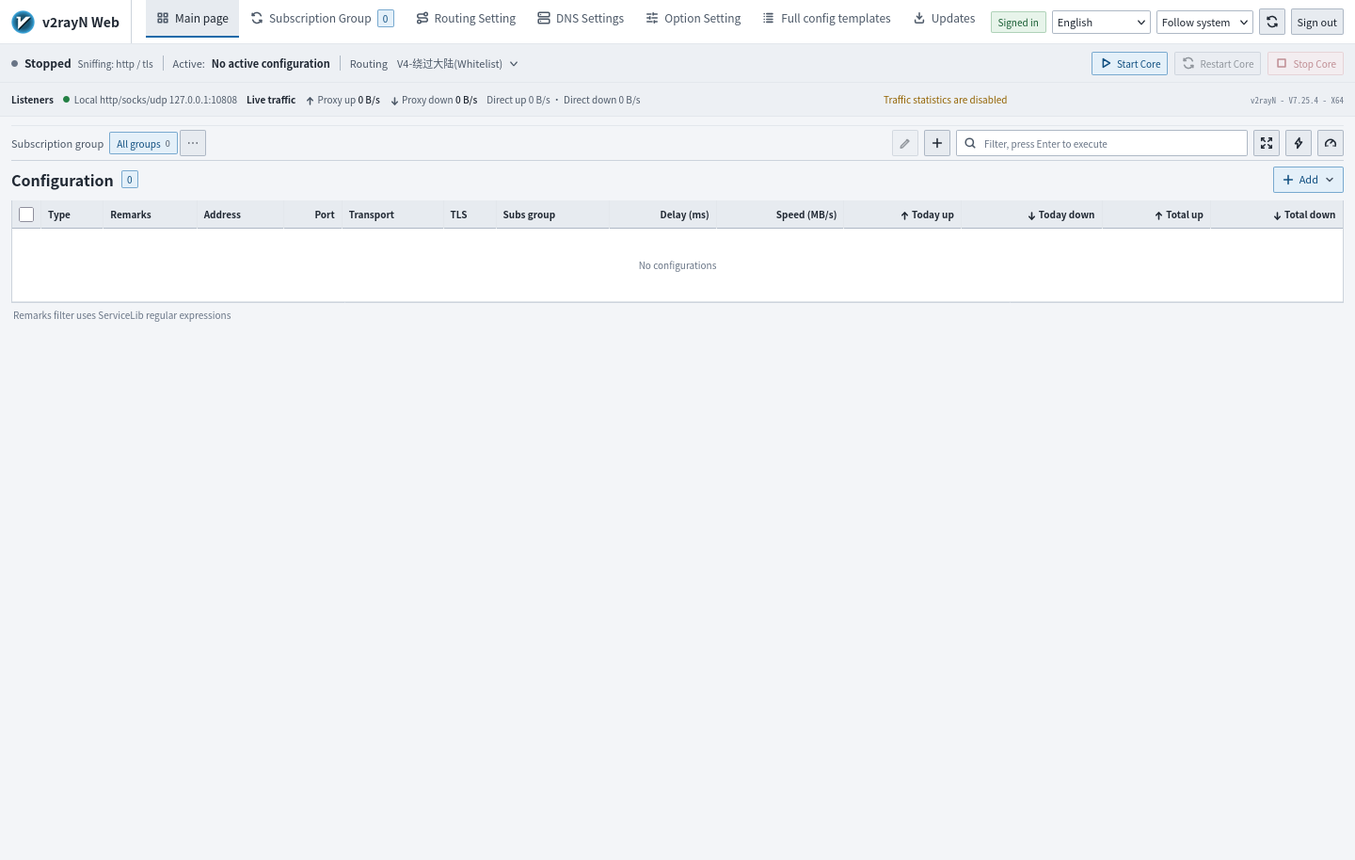
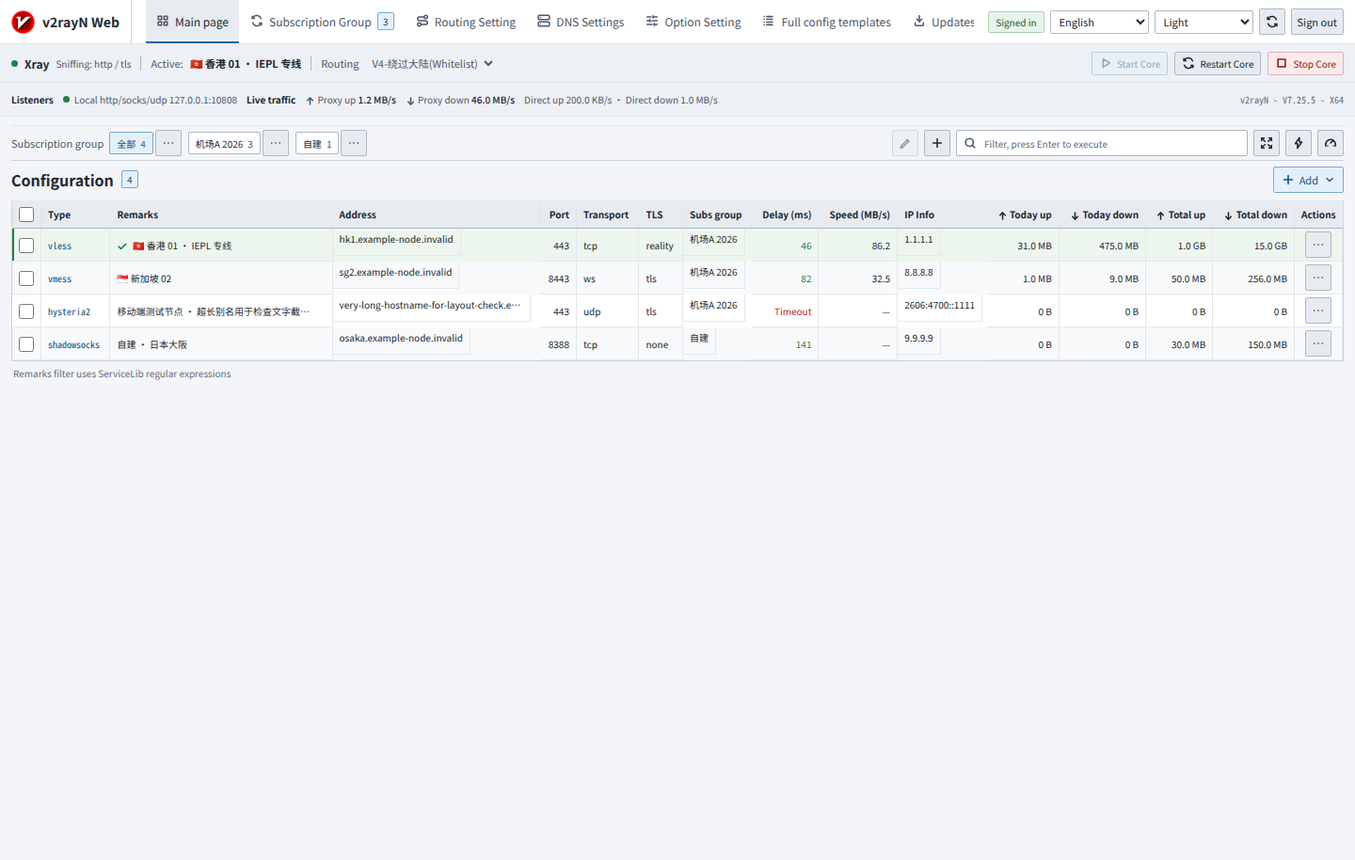
Fix mid-width navigation, desktop row actions and mobile menu clutter
- Wrap the desktop navigation onto its own row below 1360px instead of
  clipping tabs, and give the nodes group toolbar a stable label row.
- Restore the visible per-row More action in the desktop nodes table.
- De-duplicate the subscription bulk update buttons; the group button is
  disabled until a specific group is selected.
- Group node context-menu tests into one submenu, hide keyboard shortcut
  hints on touch screens and fix the Backspace wording.
- Ghost the mobile row action button, show the group More button only on
  the selected chip, drop units duplicated between labels and values, and
  label the mobile App Bar refresh control.
- Raise remaining 40px mobile touch targets to 44px.
- Compact the maintenance update options panel, cap routing strategy
  selects and render regional presets as chips.
- Raise dim text contrast in both themes and 9px hints to 10px.
- Refresh README screenshots from the current build.

diff --git a/Src/style.css b/Src/style.css
@@ -20,7 +20,7 @@
   --text: #e5e5e5;
   --text-primary: #e5e5e5;
   --text-muted: #a0a0a0;
-  --text-dim: #777;
+  --text-dim: #909090;
   --accent: #579cda;
   --accent-text: #b9dcf6;
   --accent-border: #527899;
@@ -88,7 +88,7 @@
   --text: #202833;
   --text-primary: #202833;
   --text-muted: #4d5968;
-  --text-dim: #697586;
+  --text-dim: #636d7c;
   --accent: #1769a8;
   --accent-text: #104f80;
   --accent-border: #78a9cf;
@@ -162,6 +162,7 @@ input[type="checkbox"] { width: 16px; height: 16px; flex: 0 0 16px; align-self: 
 .runtime-health, .runtime-node, .runtime-route { display: flex; align-items: center; gap: 7px; min-width: 0; }
 .core-status-host { display: contents; }
 .button.mobile-core-entry { display: none; }
+.header-refresh-label { display: none; }
 body:has(.core-panel-shade) { overflow: hidden; }
 .connection-tag { padding: 3px 7px; color: var(--text-muted); border: 1px solid var(--border-strong); border-radius: 2px; background: var(--surface-raised); font-size: 10px; }
 .connection-tag.online { color: var(--success-text); border-color: var(--success-border); background: var(--success-surface); }
@@ -186,7 +187,7 @@ body:has(.core-panel-shade) { overflow: hidden; }
 .listener-item { display: inline-flex; align-items: center; gap: 5px; }
 .traffic-list span b { color: var(--text); font-weight: 500; }
 .stats-hint { margin-left: auto; color: var(--warning); }
-.runtime-version { margin-left: auto; color: var(--text-dim); font: 9px Consolas, "Cascadia Mono", monospace; white-space: nowrap; }
+.runtime-version { margin-left: auto; color: var(--text-dim); font: 10px Consolas, "Cascadia Mono", monospace; white-space: nowrap; }
 .muted { color: var(--text-muted); }
 .toast-viewport { position: fixed; z-index: 120; top: 12px; right: 12px; width: min(380px, calc(100vw - 24px)); display: grid; gap: 8px; pointer-events: none; }
 .toast { min-width: 0; display: flex; align-items: flex-start; justify-content: space-between; gap: 10px; padding: 9px 10px; color: var(--notice-text); border: 1px solid var(--notice-border); border-radius: 3px; background: var(--notice-surface); box-shadow: var(--shadow-menu); font-size: 12px; line-height: 1.45; pointer-events: auto; animation: toast-enter 140ms ease-out; }
@@ -229,7 +230,7 @@ body:has(.core-panel-shade) { overflow: hidden; }
 .group-chip-more { width: 24px; height: 24px; }
 .group-chip:hover { background: var(--surface-hover); }
 .group-chip.selected { color: var(--accent-text); border-color: var(--accent-border); background: var(--accent-soft); }
-.group-chip small { color: var(--text-muted); font-size: 9px; }
+.group-chip small { color: var(--text-muted); font-size: 10px; }
 .nodes-page .page-toolbar { margin-bottom: 5px; }
 .action-dropdown { flex: 0 0 auto; }
 .action-menu-trigger { min-height: var(--control-height); padding: 0 8px; }
@@ -241,7 +242,7 @@ body:has(.core-panel-shade) { overflow: hidden; }
 .action-menu-item.danger { color: var(--danger-text); }
 .action-menu-item.danger:hover:not(:disabled) { color: var(--danger); background: var(--danger-surface); }
 .action-menu-separator, .context-separator { height: 1px; margin: 3px 2px; background: var(--border-strong); }
-.context-web-only-label { padding: 4px 8px 2px; color: var(--text-dim); font-size: 9px; text-transform: uppercase; }
+.context-web-only-label { padding: 4px 8px 2px; color: var(--text-dim); font-size: 10px; text-transform: uppercase; }
 .flyout-menu { min-width: 0; }
 .flyout-menu-trigger { min-height: var(--control-height); }
 .flyout-menu-trigger:hover:not(:disabled) { background: var(--hover); }
@@ -286,8 +287,8 @@ body:has(.core-panel-shade) { overflow: hidden; }
 .delay-cell { color: var(--success) !important; }
 .delay-cell.bad { color: var(--danger) !important; }
 .row-actions { gap: 2px; white-space: nowrap; }
-.row-more { display: none; }
-.profile-table th.actions-cell, .profile-table td.row-actions { display: none; }
+.row-more { display: inline-flex; }
+.profile-table th.actions-cell, .profile-table td.row-actions { width: 46px; display: table-cell; text-align: center; }
 .node-select-label { display: contents; }
 .mobile-node-tools { display: none; }
 .desktop-log-actions, .desktop-update-actions, .desktop-subscription-tools, .desktop-routing-tools, .rule-select-label { display: contents; }
@@ -421,6 +422,25 @@ body:has(.core-panel-shade) { overflow: hidden; }
   .core-actions { align-self: flex-end; }
 }
 
+/* Mid-width windows keep every destination visible: navigation drops to its own row
+   instead of clipping tabs, and the group toolbar wraps with a stable label row. */
+@media (max-width: 1360px) {
+  .app-header { flex-wrap: wrap; }
+  .main-nav { order: 3; width: 100%; min-height: 37px; flex-wrap: wrap; border-top: 1px solid var(--border-soft); }
+}
+
+@media (max-width: 960px) {
+  .nodes-page .group-toolbar { flex-wrap: wrap; row-gap: 2px; }
+  .nodes-page .group-toolbar .toolbar-label { flex-basis: 100%; order: -1; }
+  .nodes-page .group-toolbar .group-chips { flex-basis: 100%; order: 0; }
+  .nodes-page .group-toolbar .search-box { order: 5; }
+}
+
+@media (max-width: 1120px) {
+  .update-preferences { grid-template-columns: minmax(0, 1fr); }
+  .update-preferences .settings-checks { justify-content: flex-start; }
+}
+
 /* Dense, tabbed editor surfaces keep the desktop utility's information hierarchy. */
 button:focus-visible, a:focus-visible, input:focus-visible, select:focus-visible, textarea:focus-visible, summary:focus-visible {
   outline: 2px solid var(--focus);
@@ -503,7 +523,7 @@ input[type="checkbox"] { width: 16px; height: 16px; flex: 0 0 16px; }
 .group-member-order > p { padding: 7px; }
 
 .routing-strategy-bar { display: flex; align-items: end; gap: 8px; margin: 0 0 8px; padding: 7px 8px; border: 1px solid var(--border); background: var(--surface-inset); }
-.routing-strategy-bar label { display: grid; flex: 1 1 240px; gap: 4px; color: var(--text-muted); font-size: 10px; }
+.routing-strategy-bar label { display: grid; flex: 1 1 240px; max-width: 460px; gap: 4px; color: var(--text-muted); font-size: 10px; }
 .routing-strategy-bar input, .routing-strategy-bar select { width: 100%; min-width: 0; min-height: var(--control-height); padding: 3px 6px; color: var(--text); border: 1px solid var(--border-strong); border-radius: 2px; background: var(--surface-input); font-size: 11px; }
 .routing-strategy-bar > .button { min-height: var(--control-height); }
 .routing-workspace { grid-template-columns: minmax(240px, 315px) minmax(0, 1fr); }
@@ -514,6 +534,10 @@ input[type="checkbox"] { width: 16px; height: 16px; flex: 0 0 16px; }
 .route-select { min-width: 0; flex: 1; display: flex; justify-content: space-between; align-items: center; gap: 6px; padding: 3px; color: inherit; border: 0; background: transparent; text-align: left; }
 .route-info { flex: 1; }
 .preset-bar { gap: 4px; }
+@media (min-width: 761px) {
+  .preset-bar .link-button { min-height: 24px; padding: 0 8px; color: var(--text); border: 1px solid var(--border-strong); border-radius: 2px; background: var(--surface-raised); }
+  .preset-bar .link-button:hover:not(:disabled) { color: var(--accent-text); border-color: var(--accent-border); background: var(--accent-soft); text-decoration: none; }
+}
 .rule-toolbar { display: flex; align-items: center; flex-wrap: wrap; gap: 4px; min-width: 0; padding: 3px 0 6px; }
 .rule-toolbar .button { min-height: var(--control-height-compact); }
 .toolbar-divider { width: 1px; height: 19px; margin: 0 4px; background: var(--border-strong); }
@@ -543,7 +567,7 @@ input[type="checkbox"] { width: 16px; height: 16px; flex: 0 0 16px; }
 .dns-core-column input:not([type="checkbox"]), .dns-core-column select { min-height: var(--control-height); }
 .dns-core-column textarea.dns-code { min-height: 280px; resize: vertical; }
 .dns-core-column .check-inline { width: max-content; max-width: 100%; justify-self: start; align-self: start; white-space: normal; }
-.page-footnote { margin: 10px 0 0; color: var(--text-dim); font-size: 9px; }
+.page-footnote { margin: 10px 0 0; color: var(--text-dim); font-size: 10px; }
 .dns-code { min-height: 280px; }
 
 .template-editor { display: flex; flex-direction: column; min-height: calc(100vh - 260px); }
@@ -556,8 +580,9 @@ input[type="checkbox"] { width: 16px; height: 16px; flex: 0 0 16px; }
 .template-editor .settings-footer { margin-top: 8px; }
 
 .update-core-row { display: flex; align-items: center; gap: 14px; padding: 4px 0; }
-.update-preferences { max-width: 100%; margin-bottom: var(--space-2); padding: var(--space-3); }
-.update-preferences .section-heading { margin-bottom: var(--space-2); }
+.update-preferences { display: grid; grid-template-columns: minmax(0, 1fr) auto; align-items: center; column-gap: var(--space-4); row-gap: var(--space-2); max-width: 100%; margin-bottom: var(--space-2); padding: var(--space-3); }
+.update-preferences .section-heading { margin-bottom: 0; }
+.update-preferences .settings-checks { justify-content: flex-end; }
 .update-section { padding-block: var(--space-3); }
 .update-detail { overflow-wrap: anywhere; }
 .update-state { color: var(--success); font-size: 10px; }
@@ -702,6 +727,7 @@ input[type="checkbox"] { width: 16px; height: 16px; flex: 0 0 16px; }
 /* Mobile reorganizes the same utility surfaces, rather than shrinking desktop rows. */
 @media (max-width: 760px) {
   :root { --control-height-touch: 44px; }
+  .menu-shortcut { display: none; }
   .app-shell:has(.main-nav) { padding-bottom: calc(72px + env(safe-area-inset-bottom)); }
   .app-header { position: relative; align-items: center; justify-content: space-between; flex-wrap: nowrap; gap: 12px; padding: 8px 16px; }
   .brand { min-height: 44px; padding: 0; font-size: 15px; }
@@ -713,6 +739,7 @@ input[type="checkbox"] { width: 16px; height: 16px; flex: 0 0 16px; }
   .header-control-field { display: grid; gap: 8px; color: var(--text-muted); font-size: 12px; }
   .header-control-field > span { display: block; }
   .header-right .locale-select, .header-right .theme-select { width: 100%; max-width: none; height: 44px; font-size: 13px; }
+  .header-right .header-refresh-label { display: inline; }
   .header-right .connection-tag { display: block; justify-self: start; font-size: 12px; }
   .button.mobile-core-entry { display: inline-flex; justify-content: flex-start; min-height: 44px; font-size: 13px; }
   .mobile-core-summary { display: flex; align-items: center; gap: 8px; min-width: 0; min-height: 36px; padding: 8px 16px; border-bottom: 1px solid var(--border-soft); background: var(--surface-inset); font-size: 11px; }
@@ -768,6 +795,8 @@ input[type="checkbox"] { width: 16px; height: 16px; flex: 0 0 16px; }
   .search-box input { font-size: 13px; }
   .group-toolbar { gap: 12px; margin-bottom: 16px; }
   .group-chip { font-size: 12px; }
+  .group-chip-more { display: none; }
+  .group-chip-wrap:has(.group-chip.selected) .group-chip-more { display: inline-flex; }
   .group-chip-more, .selection-clear, .clear-search { min-width: 44px; min-height: 44px; }
   .subpanel, .panel { padding: 12px; }
   .split-workspace, .split-pane { gap: 24px; }
@@ -801,6 +830,7 @@ input[type="checkbox"] { width: 16px; height: 16px; flex: 0 0 16px; }
   .profile-table .remark-text { min-width: 0; font-size: 13px; font-weight: 600; line-height: 1.45; overflow-wrap: anywhere; }
   .profile-table td.remark-cell::before, .profile-table td.node-endpoint::before, .profile-table td.node-badge::before, .profile-table td.row-actions::before, .profile-table td.mobile-node-details::before { content: none; }
   .profile-table td.row-actions { position: absolute; top: 10px; right: 10px; grid-column: auto; width: 44px; min-height: 44px; padding: 0; }
+  .profile-table td.row-actions .row-more { border-color: transparent; background: transparent; color: var(--text-muted); }
   .profile-table td.node-endpoint { grid-column: 1 / -1; grid-row: 2; flex-wrap: wrap; align-items: baseline; justify-content: space-between; gap: 4px 12px; color: var(--text-muted); font: 11px/1.5 Consolas, "Cascadia Mono", monospace; }
   .node-endpoint-value { flex: 1 1 170px; min-width: 0; overflow-wrap: anywhere; }
   .mobile-node-port { display: inline; }
@@ -813,7 +843,7 @@ input[type="checkbox"] { width: 16px; height: 16px; flex: 0 0 16px; }
   .profile-table td.group-cell, .profile-table td.ip-cell { grid-column: 1 / -1; max-width: none; }
   .profile-table tr:not(.details-open) > .node-detail-cell { display: none; }
   .profile-table td.mobile-node-details { display: flex; grid-column: 1 / -1; order: 6; padding: 0; border-top: 1px solid var(--border-soft) !important; }
-  .mobile-node-details button { display: flex; justify-content: space-between; align-items: center; width: 100%; min-height: 40px; padding: 0; border: 0; color: var(--text-muted); background: transparent; font-size: 11px; }
+  .mobile-node-details button { display: flex; justify-content: space-between; align-items: center; width: 100%; min-height: 44px; padding: 0; border: 0; color: var(--text-muted); background: transparent; font-size: 11px; }
   .mobile-node-details button:hover { color: var(--text-primary); }
   .details-open .mobile-node-details .ui-icon { transform: rotate(180deg); }
   .profile-table td.empty-row { grid-column: 1 / -1; margin-left: 0; }
@@ -841,7 +871,7 @@ input[type="checkbox"] { width: 16px; height: 16px; flex: 0 0 16px; }
   .subscription-table tr:not(.details-open) > .subscription-detail, .subscription-table tr > .subscription-detail.empty-detail { display: none; }
   .subscription-table td.mobile-subscription-actions { order: 4; display: flex; align-items: center; justify-content: space-between; min-height: 44px; padding-top: 6px; border-top: 1px solid var(--border-soft); }
   .subscription-action-group { display: flex; align-items: center; gap: 6px; margin-left: auto; }
-  .subscription-disclosure { display: flex; align-items: center; gap: 6px; min-height: 40px; padding: 0; border: 0; background: transparent; color: var(--text-muted); font-size: 11px; }
+  .subscription-disclosure { display: flex; align-items: center; gap: 6px; min-height: 44px; padding: 0; border: 0; background: transparent; color: var(--text-muted); font-size: 11px; }
   .details-open .subscription-disclosure .ui-icon { transform: rotate(180deg); }
   .mobile-subscription-actions .icon-only > .button, .mobile-rule-menu .icon-only > .button { border-color: transparent; background: transparent; }
   .subscription-table .row-actions::before, .subscription-table .empty-row::before { content: none; }
@@ -851,7 +881,7 @@ input[type="checkbox"] { width: 16px; height: 16px; flex: 0 0 16px; }
   .rule-toolbar, .rule-import-options { display: none; }
   .mobile-rule-actions { display: flex; align-items: center; flex-wrap: wrap; gap: 8px; padding-bottom: 8px; }
   .mobile-rule-actions > span { margin-right: auto; font-size: 11px; }
-  .mobile-rule-actions .action-menu-trigger { background: transparent; min-height: 40px; font-size: 11px; }
+  .mobile-rule-actions .action-menu-trigger { background: transparent; min-height: 44px; font-size: 11px; }
   .rule-row { grid-template-columns: 24px minmax(0, 1fr) 44px; gap: 4px 8px; padding: 8px; }
   .rule-select-label { display: flex; align-items: center; justify-content: center; grid-column: 1; grid-row: 1; height: 44px; }
   .rule-edit-button { grid-column: 2; grid-row: 1; }
@@ -903,6 +933,6 @@ input[type="checkbox"] { width: 16px; height: 16px; flex: 0 0 16px; }
   .maintenance-page .button-row { flex-wrap: wrap; gap: 8px; }
   .maintenance-page .button-row .button { white-space: normal; }
   .update-core-row { gap: 8px 12px; }
-  .update-core-row .check-inline { min-height: 40px; }
-  .form-grid .check-inline, .settings-checks .check-inline { min-height: 40px; }
+  .update-core-row .check-inline { min-height: 44px; }
+  .form-grid .check-inline, .settings-checks .check-inline { min-height: 44px; }
 }

diff --git a/Src/App.vue b/Src/App.vue
@@ -651,15 +651,18 @@ function positionOpenContextMenu() {
       <button role="menuitem" :disabled="contextMenu.profile.isCurrent" @click="selectContextProfile">{{ contextMenu.profile.isCurrent ? t('nodes.current') : t('nodes.switch') }}<span class="menu-shortcut">Enter</span></button>
       <button role="menuitem" @click="editContextProfile">{{ t('common.edit') }}<span class="menu-shortcut">Ctrl+D</span></button>
       <button role="menuitem" :disabled="!nodesPageState.selectedIds.length" @click="copySelectedNodes">{{ t('nodes.copySelected') }}</button>
-      <button role="menuitem" class="danger-text" :disabled="!nodesPageState.selectedIds.length" @click="deleteSelectedNodes">{{ t('nodes.removeSelected') }}<span class="menu-shortcut">Back</span></button>
+      <button role="menuitem" class="danger-text" :disabled="!nodesPageState.selectedIds.length" @click="deleteSelectedNodes">{{ t('nodes.removeSelected') }}<span class="menu-shortcut">Backspace</span></button>
       <button role="menuitem" @click="nodesPageActions.runProfileAction('deduplicate')">{{ t('nodes.deduplicate') }}</button>
       <button role="menuitem" @click="nodesPageActions.runProfileAction('remove-invalid')">{{ t('nodes.removeInvalid') }}</button>
       <div class="context-separator"></div>
-      <button role="menuitem" @click="testSelectedNodes('tcping')">{{ t('nodes.tcping') }}<span class="menu-shortcut">Ctrl+O</span></button>
-      <button role="menuitem" @click="testSelectedNodes('realping')">{{ t('nodes.realping') }}<span class="menu-shortcut">Ctrl+R</span></button>
-      <button role="menuitem" @click="testSelectedNodes('speedtest')">{{ t('nodes.speedtest') }}<span class="menu-shortcut">Ctrl+T</span></button>
-      <button role="menuitem" @click="testSelectedNodes('udpTest')">{{ t('nodes.udp') }}</button>
-      <button role="menuitem" @click="nodesPageActions.sortProfiles('DelayVal')">{{ t('nodes.sortByTestResults') }}</button>
+      <FlyoutMenu context :label="t('nodes.testMenu')" @select="contextMenu = null">
+        <button class="action-menu-item" role="menuitem" @click="testSelectedNodes('tcping')">{{ t('nodes.tcping') }}<span class="menu-shortcut">Ctrl+O</span></button>
+        <button class="action-menu-item" role="menuitem" @click="testSelectedNodes('realping')">{{ t('nodes.realping') }}<span class="menu-shortcut">Ctrl+R</span></button>
+        <button class="action-menu-item" role="menuitem" @click="testSelectedNodes('speedtest')">{{ t('nodes.speedtest') }}<span class="menu-shortcut">Ctrl+T</span></button>
+        <button class="action-menu-item" role="menuitem" @click="testSelectedNodes('udpTest')">{{ t('nodes.udp') }}</button>
+        <div class="action-menu-separator" role="separator"></div>
+        <button class="action-menu-item" role="menuitem" @click="nodesPageActions.sortProfiles('DelayVal')">{{ t('nodes.sortByTestResults') }}</button>
+      </FlyoutMenu>
       <div class="context-separator"></div>
       <FlyoutMenu context :label="t('nodes.moveGroup')" :disabled="!nodesPageState.selectedIds.length" @select="contextMenu = null">
         <button v-for="group in nodesPageState.groups" :key="group.id || 'all-target'" class="action-menu-item" role="menuitem" :disabled="!nodesPageState.selectedIds.length" @click="nodesPageActions.moveSelectedToGroup(group.id)">{{ group.name || t('common.allGroups') }}</button>

diff --git a/Src/Components/Pages/SubscriptionsPage.vue b/Src/Components/Pages/SubscriptionsPage.vue
@@ -19,7 +19,7 @@ function toggleDetails(id: string) {
 
 <template>
 <section class="page subscriptions-page">
-   <div class="page-header page-toolbar"><div class="page-title"><h1>{{ t('subscriptions.title') }}</h1><span class="count-tag">{{ state.subscriptions.length }}</span></div><div class="toolbar toolbar-main"><button class="button primary" @click="actions.openAddSubscription"><UiIcon name="plus" /> {{ t('subscriptions.addSubscription') }}</button><span class="desktop-subscription-tools"><span class="toolbar-divider"></span><label class="check-inline"><UiCheckbox v-model="state.subscriptionUseProxy" />{{ t('subscriptions.useProxy') }}</label><button class="button" @click="actions.updateSubscriptions(null, state.subscriptionUseProxy)">{{ t(actions.subscriptionUpdateMessageKey(null, state.subscriptionUseProxy)) }}</button><button class="button" @click="actions.updateSubscriptions(state.selectedGroup || null, state.subscriptionUseProxy)">{{ t(actions.subscriptionUpdateMessageKey(state.selectedGroup || null, state.subscriptionUseProxy)) }}</button></span>
+   <div class="page-header page-toolbar"><div class="page-title"><h1>{{ t('subscriptions.title') }}</h1><span class="count-tag">{{ state.subscriptions.length }}</span></div><div class="toolbar toolbar-main"><button class="button primary" @click="actions.openAddSubscription"><UiIcon name="plus" /> {{ t('subscriptions.addSubscription') }}</button><span class="desktop-subscription-tools"><span class="toolbar-divider"></span><label class="check-inline"><UiCheckbox v-model="state.subscriptionUseProxy" />{{ t('subscriptions.useProxy') }}</label><button class="button" @click="actions.updateSubscriptions(null, state.subscriptionUseProxy)">{{ t(actions.subscriptionUpdateMessageKey(null, state.subscriptionUseProxy)) }}</button><button class="button" :disabled="!state.selectedGroup" @click="actions.updateSubscriptions(state.selectedGroup || null, state.subscriptionUseProxy)">{{ t(state.subscriptionUseProxy ? 'subscriptions.updateGroupViaProxy' : 'subscriptions.updateGroup') }}</button></span>
      <ActionDropdown class="mobile-subscription-tools" :label="t('common.more')">
        <button class="action-menu-item menu-stay-open" role="menuitemcheckbox" :aria-checked="state.subscriptionUseProxy" @click="state.subscriptionUseProxy = !state.subscriptionUseProxy">{{ t('subscriptions.useProxy') }}<UiIcon v-if="state.subscriptionUseProxy" name="check" :size="12" /></button>
        <button class="action-menu-item" role="menuitem" @click="actions.updateSubscriptions(null, state.subscriptionUseProxy)">{{ t(actions.subscriptionUpdateMessageKey(null, state.subscriptionUseProxy)) }}</button>

diff --git a/Src/Components/Pages/NodesPage.vue b/Src/Components/Pages/NodesPage.vue
@@ -88,7 +88,7 @@ function toggleDetails(id: string) {
           <td class="node-security node-badge" :data-label="t('nodes.tls')" :title="t('nodes.tls')">{{ profile.streamSecurity || '—' }}</td>
           <td class="group-cell node-detail-cell" :data-label="t('nodes.groupColumn')" :title="profile.subscriptionName">{{ profile.subscriptionName || t('common.none') }}</td>
           <td :data-label="t('nodes.delay')" :class="['number-cell', 'delay-cell', 'node-metric', { bad: profile.delay < 0 }]">{{ actions.formatDelay(profile.delay) }}</td>
-          <td class="number-cell node-metric" :data-label="t('nodes.speed')">{{ profile.speed ? `${profile.speed} MB/s` : '—' }}</td>
+          <td class="number-cell node-metric" :data-label="t('nodes.speed')">{{ profile.speed ? profile.speed : '—' }}</td>
           <td v-if="showIpInfoColumn" class="ip-cell node-detail-cell" :data-label="t('nodes.ip')" :title="profile.ipInfo">{{ profile.ipInfo || '—' }}</td>
           <td class="number-cell node-detail-cell" :data-label="t('nodes.todayUp')">{{ actions.formatBytes(profile.todayUp) }}</td><td class="number-cell node-detail-cell" :data-label="t('nodes.todayDown')">{{ actions.formatBytes(profile.todayDown) }}</td>
           <td class="number-cell node-detail-cell" :data-label="t('nodes.totalUp')">{{ actions.formatBytes(profile.totalUp) }}</td><td class="number-cell node-detail-cell" :data-label="t('nodes.totalDown')">{{ actions.formatBytes(profile.totalDown) }}</td>

diff --git a/Src/Components/AppHeader.vue b/Src/Components/AppHeader.vue
@@ -67,7 +67,7 @@ onUnmounted(() => {
     <label class="header-control-field"><span>{{ t('theme.label') }}</span><select :value="state.themePreference" class="theme-select" :aria-label="t('theme.label')" @change="actions.setTheme(($event.target as HTMLSelectElement).value)">
       <option value="system">{{ t('theme.system') }}</option><option value="light">{{ t('theme.light') }}</option><option value="dark">{{ t('theme.dark') }}</option>
     </select></label>
-    <button v-if="state.authenticated" class="tool-button" :aria-label="t('common.refresh')" :title="t('common.refresh')" :disabled="state.loading" @click="actions.refreshBase"><UiIcon name="refresh" /></button>
+    <button v-if="state.authenticated" class="tool-button" :aria-label="t('common.refresh')" :title="t('common.refresh')" :disabled="state.loading" @click="actions.refreshBase"><UiIcon name="refresh" /><span class="header-refresh-label">{{ t('common.refresh') }}</span></button>
     <button v-if="state.authenticated" class="tool-button" @click="actions.disconnect">{{ t('auth.disconnect') }}</button>
   </div>
   </div>

diff --git a/Src/Composables/useProfiles.ts b/Src/Composables/useProfiles.ts
@@ -513,7 +513,7 @@ export function useProfiles(options: ApiServices & {
   function formatDelay(value: number) {
     if (value < 0) return t('nodes.timeout')
     if (!value) return t('nodes.delayUntested')
-    return `${value} ms`
+    return String(value)
   }
 
   function reset() {

diff --git a/CHANGELOG.md b/CHANGELOG.md
@@ -21,6 +21,28 @@
 - Mobile save bars align with their actual form fields, without viewport-compensating
   negative margins that could make nested template panels protrude or appear offset.
 
+### Fixes
+
+- Mid-width windows (up to 1360px) keep the full navigation visible on its own row
+  instead of clipping tabs, and the node group toolbar wraps with a stable label row.
+- Desktop node rows expose a visible More action again; the column was previously hidden
+  and actions were only reachable through the context menu or keyboard shortcuts.
+- Subscription bulk update buttons no longer render two identical controls: the group
+  update button is disabled until a specific group is selected, and mobile wording uses
+  consistent full-width parentheses.
+- The mobile nodes context menu groups all test actions into one submenu and hides
+  keyboard shortcut hints that do not apply to touch, shortening the scrollable list.
+- Mobile node cards drop the unit duplication in delay/speed values, use a ghost row
+  action button, and only show the per-group More button on the selected group chip.
+- The mobile App Bar refresh control is labeled instead of a full-width bare icon, and
+  remaining 40px touch targets (disclosures, rule menus, check rows) reach 44px.
+- Maintenance update options use a compact two-column panel instead of a full-width card
+  with dead space; routing strategy selects are capped and regional presets are real chips.
+- Hint, shortcut and footer text uses brighter dim colors in both themes and 10px minimum
+  sizes so small print meets WCAG AA contrast.
+- The remove-selected menu item no longer carries a redundant multi-select suffix, and the
+  delete shortcut is spelled Backspace.
+
 ## [1.0.1] - 2026-10-06
 
 ### Improvements
